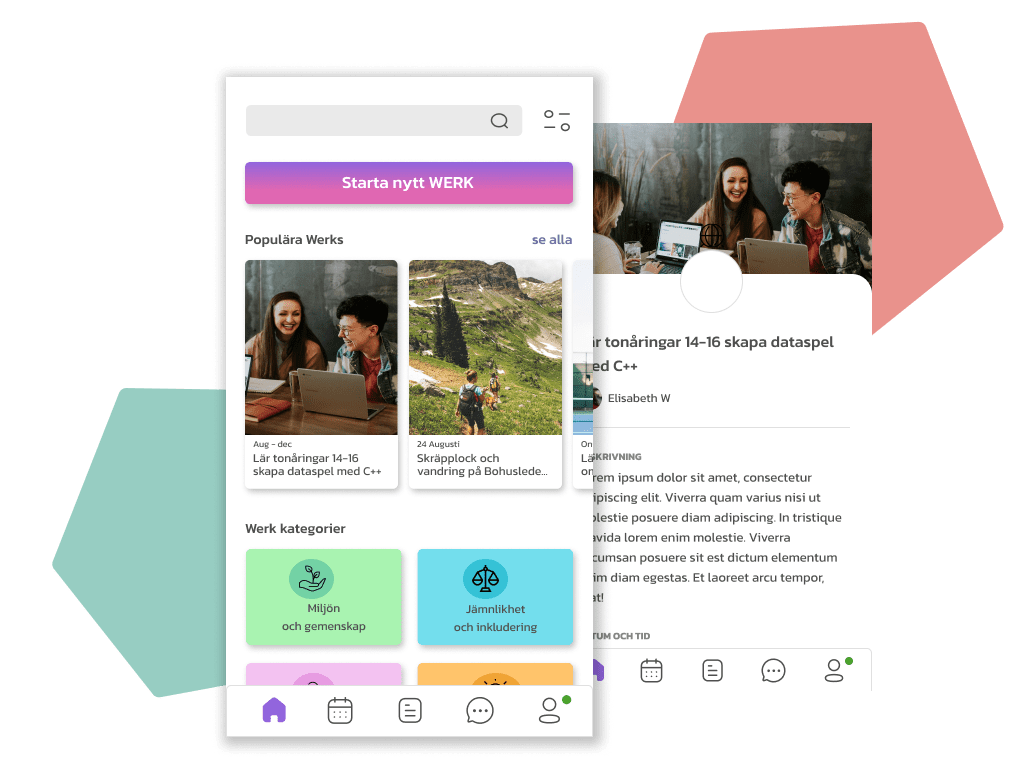
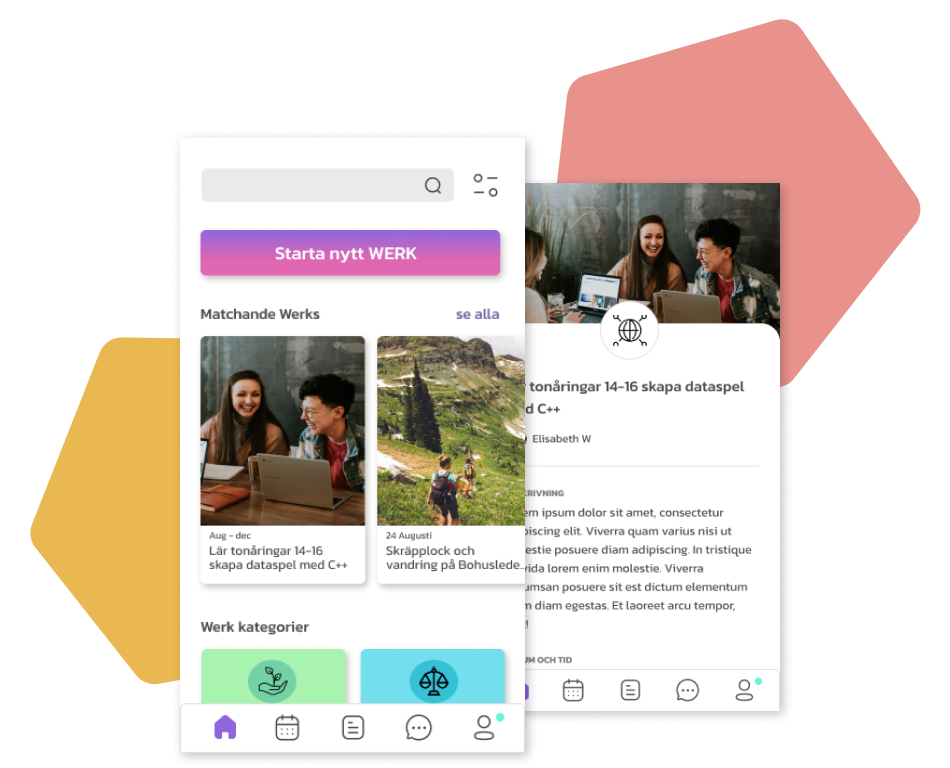
make werkstad project orange (changed page pic)

diff --git a/public/project-werkstad.html b/public/project-werkstad.html
@@ -24,7 +24,7 @@
           <h2>Som Meetup.com för välgörenhet.</h2>
         </div>
         <div class="primary-image">
-          <img src="images/Werkstad-primary.png" alt="" />
+          <img src="images/werkstad project page image.png" alt="" />
         </div>
       </div>
       <div class="top-triangles">
